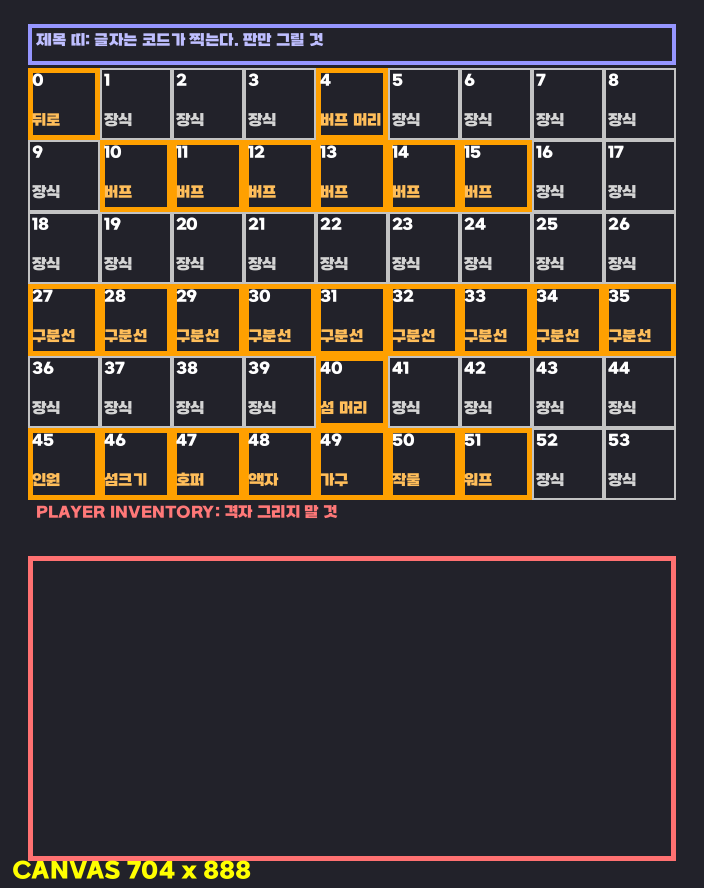
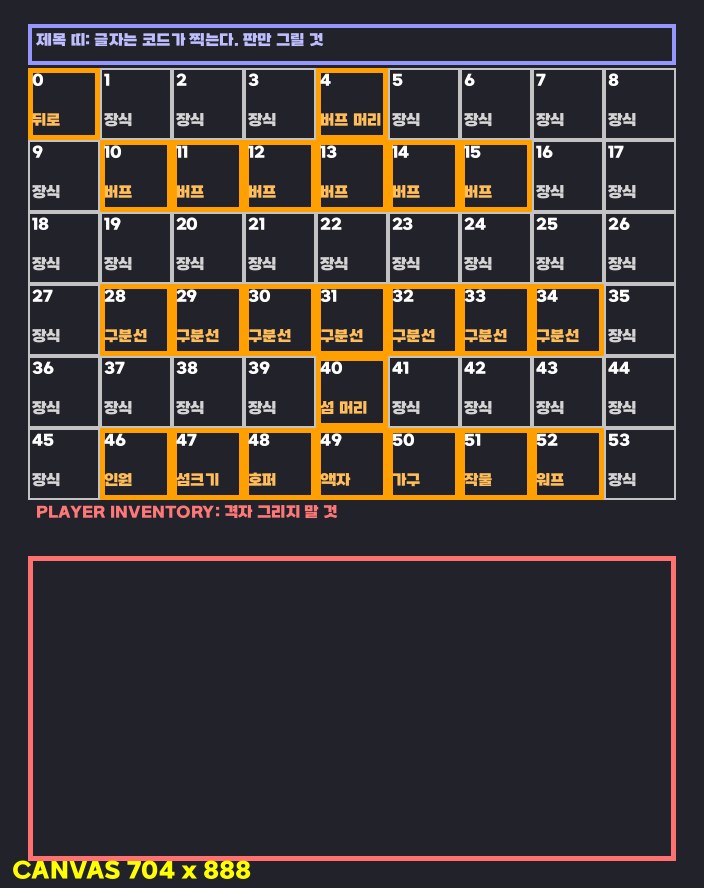
길드 업그레이드 배치 교정 — 양끝 세로줄을 비우고 가운데로 모은다
첫 발주서는 코드 배치를 그대로 옮겨 왔는데, 그 배치가 왼쪽으로 쏠려 있었다.
머리(4·40)는 col 4 정중앙인데 정작 내용물 축이 안 맞고 오른쪽만 비어 보였다.

규칙을 세웠다: col 0 과 col 8 은 프레임으로 비운다. 홈은 가운데 일곱 열에만.
왼쪽 위 뒤로가기 하나만 예외다.

  확장 7개  45~51 → 46~52   col 1~7 에 정확히 꽉 찬다. 중심이 col 4 라 머리와 맞는다
  구분선    27~35 → 28~34   유리판이 양끝 세로줄을 안 건드리게 한 칸씩 들어온다
  버프 6개  10~15 그대로     이미 col 1~6 이라 안 건드렸다

버프를 11~16 으로 옮기지 않은 이유: 옮기면 확장 줄과 왼쪽 시작선이 어긋난다.
둘 다 col 1 에서 시작하는 편이 낫다. 6개는 9열에서 완벽 대칭이 안 되니
오른쪽 한 칸이 남는 건 감수한다.

★이 배치는 이제 GuildGui 와 다르다. 그림을 받으면 openUpgradeHub 와
clickUpgradeHub 의 슬롯 번호를 여기에 맞춰야 한다 — 안 맞추면 그림과 버튼이
한 칸씩 어긋난다. PAGES 주석에 ★★ 로 박아 뒀다.

발주서 문구도 같이 고쳤다: 양끝 세로줄이 통째로 프레임이라는 것,
구분선이 프레임 안쪽에 끼워진 띠라는 것.

Claude-Session: https://claude.ai/code/session_01PcCU7rcvsfcbu47hBNa481

diff --git a/gui-forge/make_page_layouts.py b/gui-forge/make_page_layouts.py
@@ -186,19 +186,30 @@ PAGES = {
     #   0  = 뒤로가기(ARROW) · 4 = 「길드원 버프」 머리(EXPERIENCE_BOTTLE)
     #   10~15 = 버프 6개. BUFF_ORDER 순서 고정:
     #           낚시 경험치 · 크기 · 등급업 · 더블확률 · 이동속도 · 성급함
-    #   27~35 = 구분선. ★코드가 회색 유리판 9장을 **깔아 버린다**(GuildGui:1341-1342).
+    #   28~34 = 구분선. ★코드가 회색 유리판을 **깔아 버린다**(GuildGui:1341-1342).
     #           그림으로 띠를 그려도 그 위에 유리판이 덮이므로 여기는 홈으로 잡는다.
     #           배경에 띠를 그리려면 코드에서 유리판을 걷어내야 한다(발주서에 명시).
     #   40 = 「섬 업그레이드」 머리(GRASS_BLOCK)
-    #   45~51 = 인원확장 · 섬크기 · 호퍼 · 액자 · 가구 · 특수작물 · 워프 (7개)
-    #   ★52·53 은 비어 있다. 닫기 버튼이 없는 화면이다(Esc 로 닫는다).
+    #   46~52 = 인원확장 · 섬크기 · 호퍼 · 액자 · 가구 · 특수작물 · 워프 (7개)
+    #   ★53 은 비어 있다. 닫기 버튼이 없는 화면이다(Esc 로 닫는다).
+    #
+    # ★★ 이 배치는 **현재 코드와 다르다**(2026-08-14 발주 시 정렬 교정).
+    #    코드는 구분선 27~35(9칸) · 확장 45~51 이라 **양끝 세로줄(col 0·8)을 침범**한다.
+    #    그래서 머리(col 4 정중앙)와 내용물 축이 어긋나고 오른쪽만 비어 보였다.
+    #    교정 규칙 — **col 0 과 col 8 은 프레임으로 비운다. 내용물은 col 1~7 안에.**
+    #      · 확장 7개를 46~52 로 한 칸 밀면 col 1~7 에 정확히 꽉 찬다(중심 col 4 = 머리와 일치)
+    #      · 구분선을 28~34 로 좁히면 유리판이 양끝 세로줄을 안 건드린다
+    #      · 버프 6개(10~15)는 이미 col 1~6 이라 그대로 둔다 — 옮기면 확장 줄과
+    #        왼쪽 시작선이 어긋난다(둘 다 col 1 에서 시작하는 게 낫다)
+    #    ⇒ 그림을 받은 뒤 GuildGui.openUpgradeHub / clickUpgradeHub 의 슬롯 번호를
+    #      여기에 맞춰야 한다. 안 맞추면 그림과 버튼이 한 칸씩 어긋난다.
     "guildupgrade": (6, {
         0: ("홈", "뒤로"), 4: ("홈", "버프 머리"),
         **{s: ("홈", "버프") for s in range(10, 16)},
-        **{s: ("홈", "구분선") for s in range(27, 36)},
+        **{s: ("홈", "구분선") for s in range(28, 35)},
         40: ("홈", "섬 머리"),
-        45: ("홈", "인원"), 46: ("홈", "섬크기"), 47: ("홈", "호퍼"),
-        48: ("홈", "액자"), 49: ("홈", "가구"), 50: ("홈", "작물"), 51: ("홈", "워프"),
+        46: ("홈", "인원"), 47: ("홈", "섬크기"), 48: ("홈", "호퍼"),
+        49: ("홈", "액자"), 50: ("홈", "가구"), 51: ("홈", "작물"), 52: ("홈", "워프"),
     }, "장식"),
 }
 

diff --git a/gui-forge/make_order_sheets.py b/gui-forge/make_order_sheets.py
@@ -305,9 +305,11 @@ SHEETS = {
         ("p", "재질을 갈라 주면 한눈에 읽힌다. 그림 두 장처럼 보이라는 건 아니다 -"),
         ("p", "같은 방인데 위쪽 선반과 아래쪽 바닥이 다른 정도."),
         ("s", ""),
-        ("hi", "★넷째 줄(27~35) 아홉 칸이 그 경계다."),
-        ("p", "지금 코드가 회색 유리판 아홉 장을 깔아 띠를 만들고 있다."),
+        ("hi", "★넷째 줄(28~34) 일곱 칸이 그 경계다."),
+        ("p", "지금 코드가 회색 유리판을 깔아 띠를 만들고 있다."),
         ("w", "그림으로 띠를 그려도 그 위에 유리판이 덮인다 - 홈으로 파 둘 것"),
+        ("p", "양끝 세로줄까지 가지 않고 한 칸씩 들어와 끊긴다. 프레임 안쪽에"),
+        ("p", "끼워 넣은 띠처럼 - 벽을 가로지르는 선반이나 몰딩."),
         ("s", ""),
         ("hi", "★셋째 줄(18~26)은 통째로 그림이다."),
         ("p", "쓰는 칸이 하나도 없다. 위 덩어리와 경계선 사이의 숨 쉬는 자리 -"),
@@ -319,13 +321,18 @@ SHEETS = {
         ("p", "하나만 크거나 화려하면 그게 제일 좋은 버프인 줄 안다."),
         ("p", "칸 위에 레벨이 글자로 찍히니 홈 안쪽은 조용하게."),
         ("s", ""),
-        ("hi", "★아래 일곱(45~51)은 종류가 제각각이다."),
+        ("hi", "★아래 일곱(46~52)은 종류가 제각각이다."),
         ("p", "인원 확장 · 섬 크기 · 호퍼 · 액자 · 가구 · 특수작물 · 워프."),
         ("p", "일곱이 한 줄에 붙어 있으니 테두리는 얇게. 두꺼우면 답답해진다."),
         ("s", ""),
+        ("hi", "★맨 왼쪽·맨 오른쪽 세로줄은 통째로 프레임이다."),
+        ("p", "위아래로 뚫린 두 열이라 여기서 창의 테두리가 만들어진다."),
+        ("p", "홈은 그 안쪽(가운데 일곱 열)에만 있다 - 왼쪽 위 뒤로가기 하나만 예외."),
+        ("p", "기둥·경첩·밧줄처럼 세로로 읽히는 것이 어울리는 자리다."),
+        ("s", ""),
         ("p", "0 = 뒤로가기, 4 = 「길드원 버프」 머리, 40 = 「섬 업그레이드」 머리."),
         ("p", "머리 둘은 각 덩어리의 이름표라 살짝 도드라져도 좋다."),
-        ("w", "52·53(오른쪽 아래 두 칸)은 비어 있다 - 닫기 버튼이 없는 창이다(Esc)"),
+        ("w", "53(오른쪽 맨 아래)은 비어 있다 - 닫기 버튼이 없는 창이다(Esc)"),
         ("p", "비워 두지 말고 그림으로 채울 것."),
     ]),
 }
